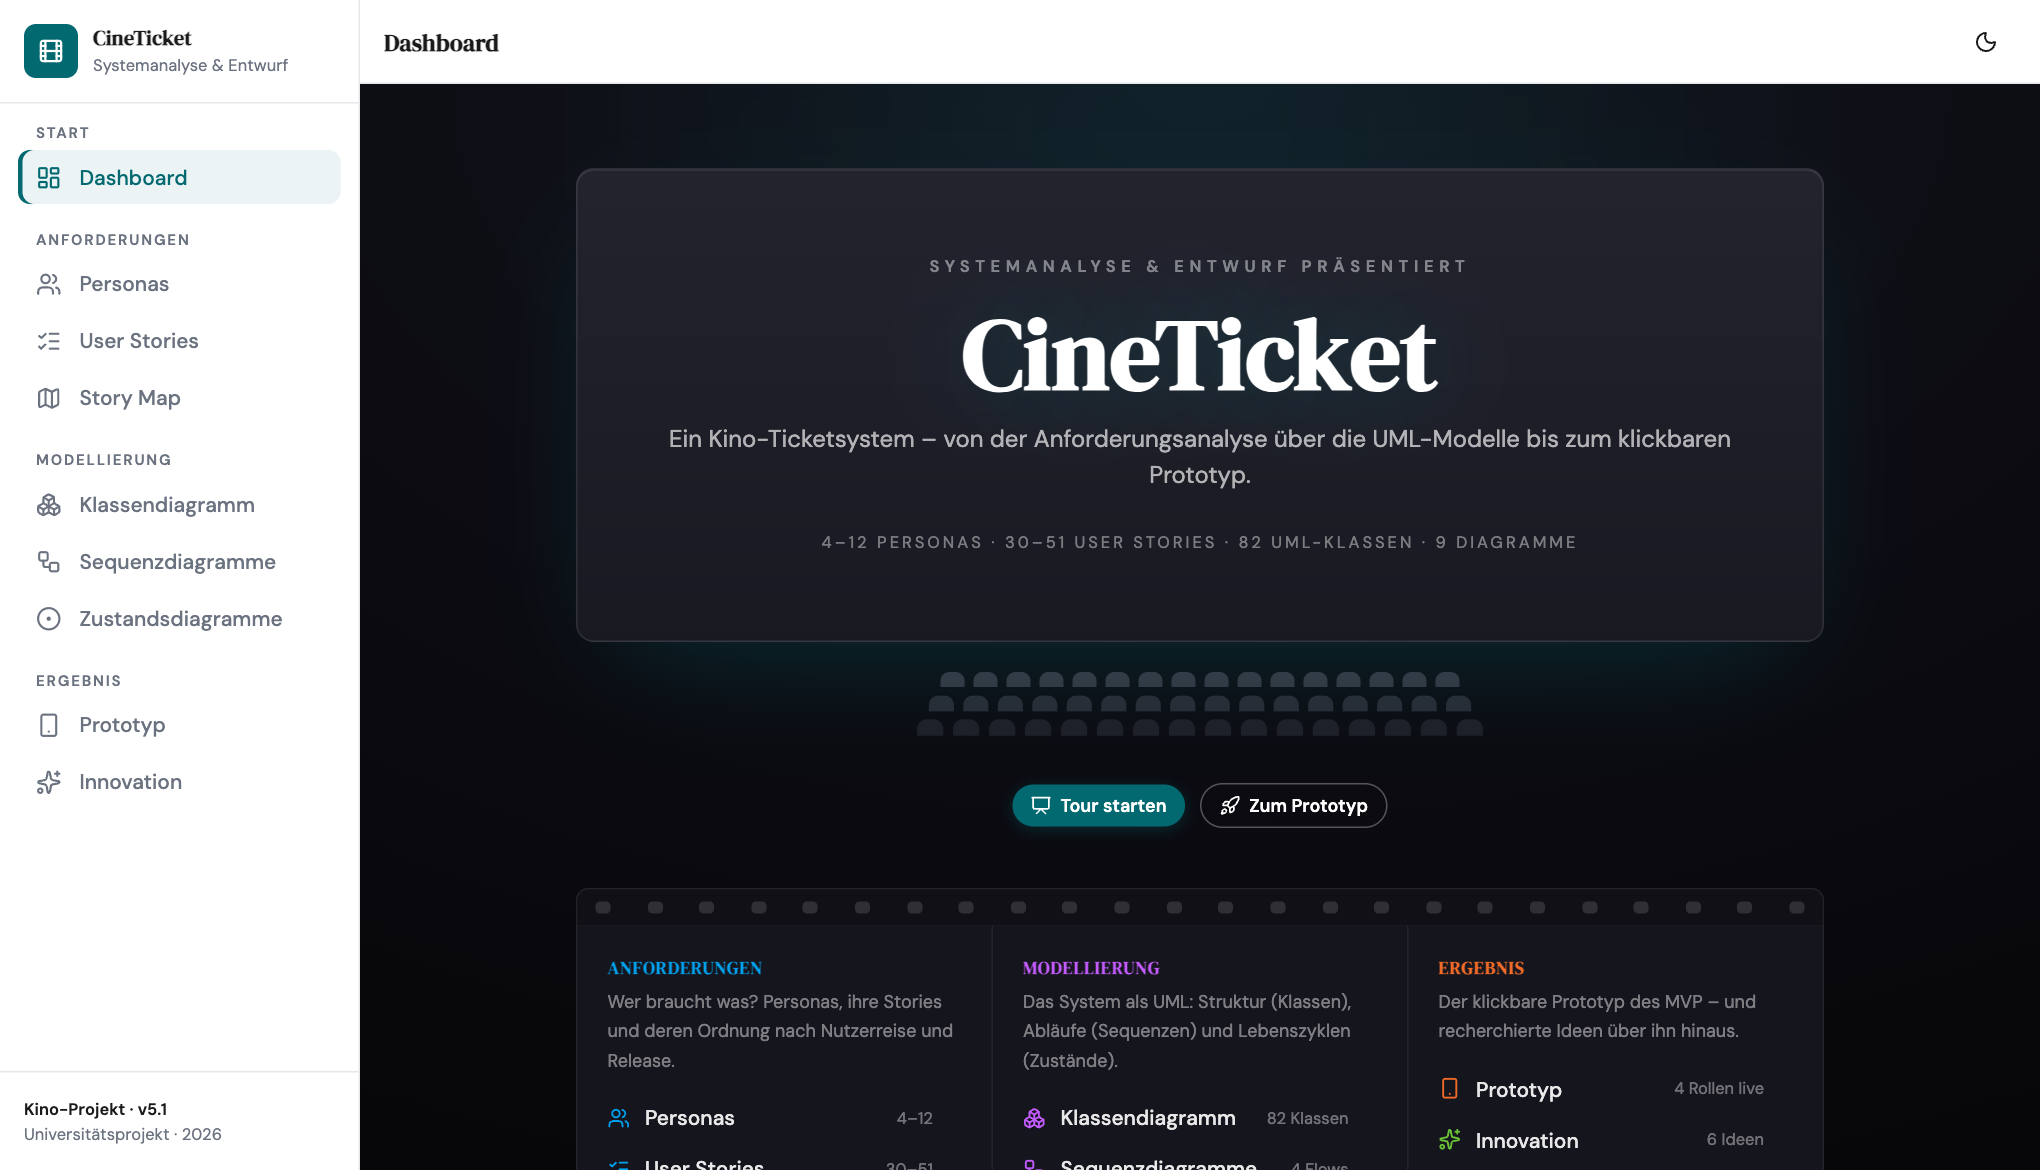
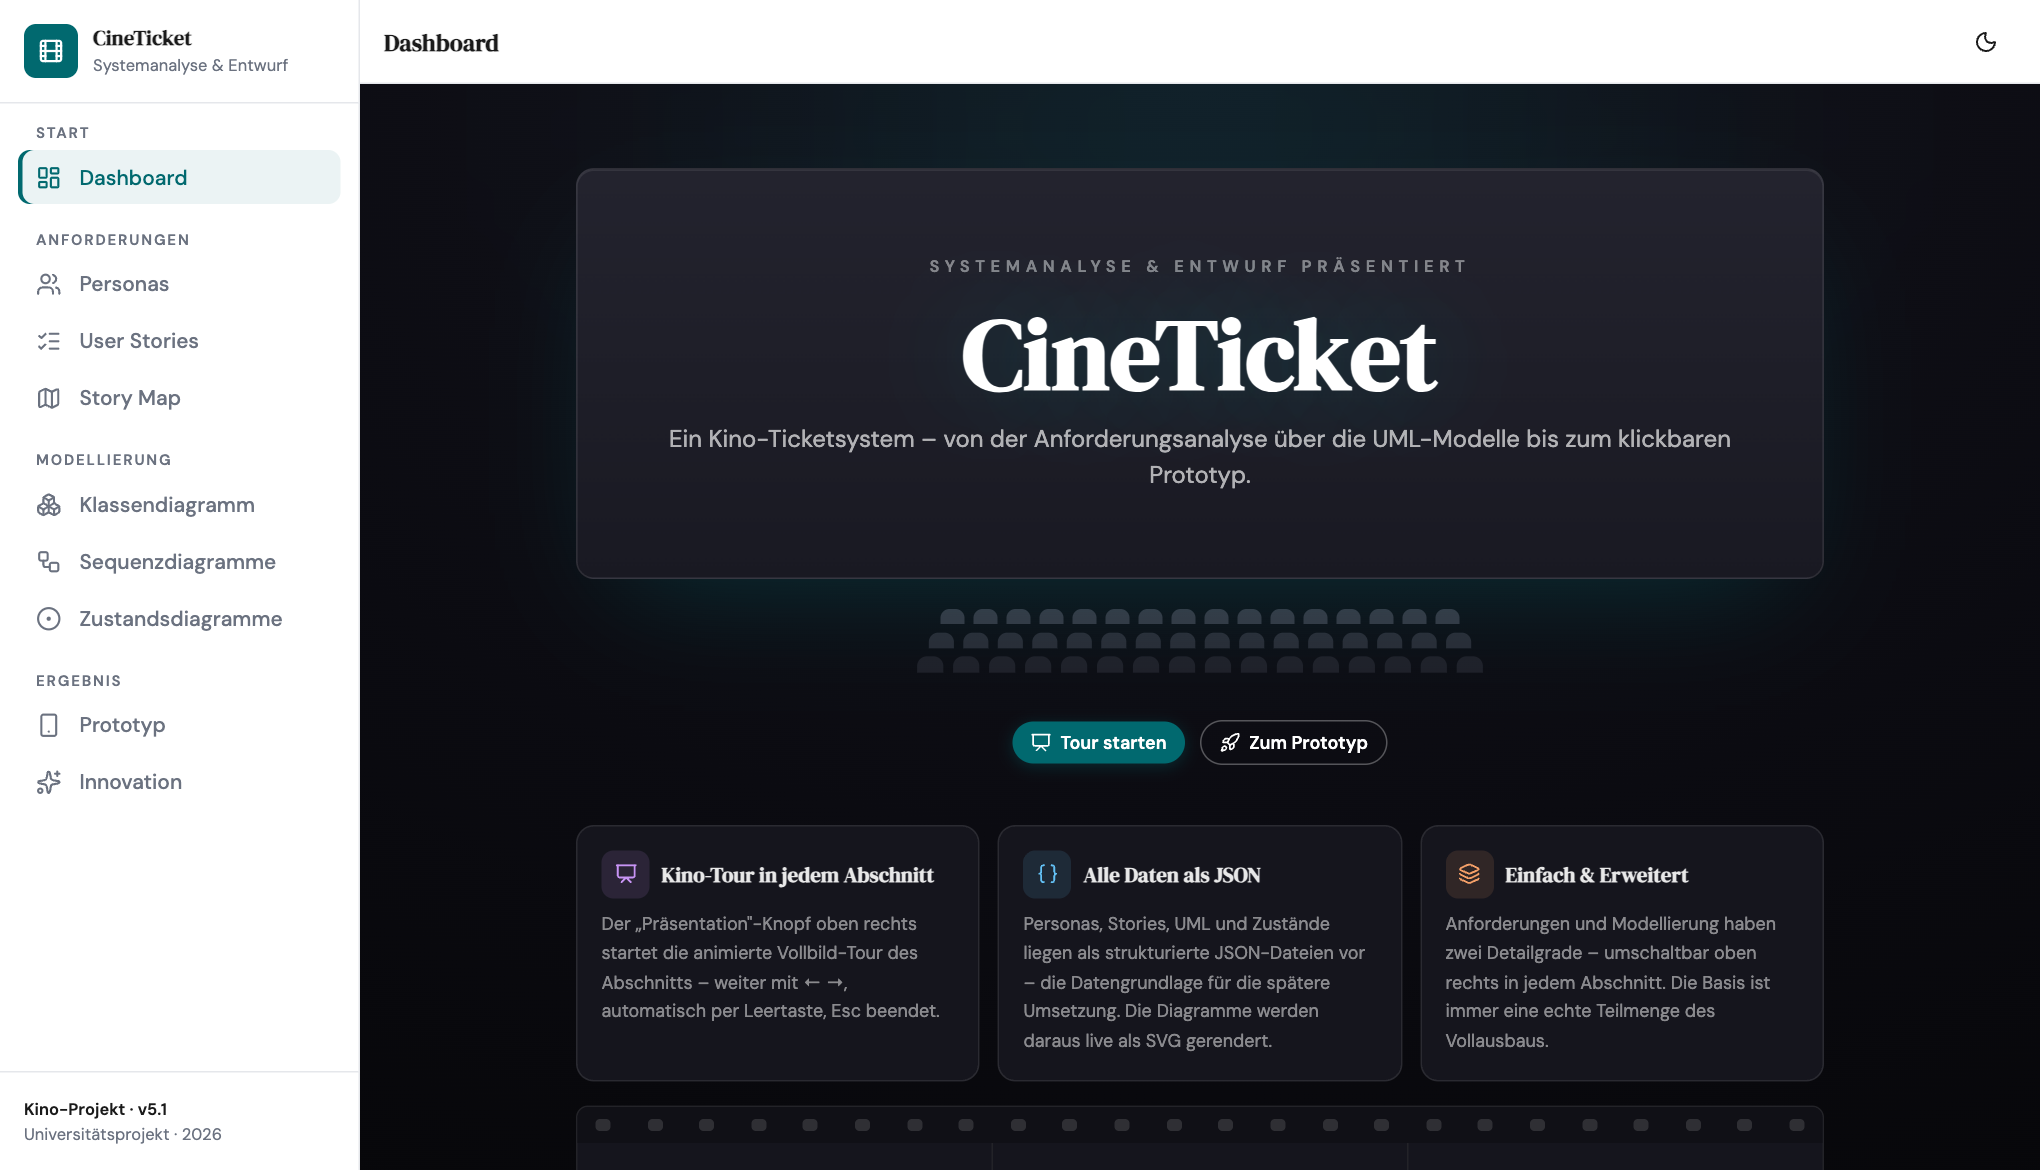
Dashboard: Erklär-Karten direkt sichtbar; neutralweißes Karo in den Abschnitten
- Drei Hinweis-Karten im Saal-Look auf dem Dashboard (nicht erst in der
  Tour): Kino-Tour-Bedienung, alle Daten als JSON (Datengrundlage für die
  spätere Umsetzung, live als SVG), Einfach & Erweitert
- Kennzahlen-Zeile unter dem Leinwand-Titel entfernt — die Zahlen stehen
  im Filmstreifen je Abschnitt
- „Präsentation"-Knopf mit Tooltip in jedem Abschnitt (analog ModeToggle)
- Whiteboard-Hintergrund hell: Creme → Neutralweiß (#fafafa, Gitter
  dezenter) — lenkt nicht ab, einheitlich zu den Karten
- README-Screenshot aktualisiert

diff --git a/src/pages/OverviewPage.tsx b/src/pages/OverviewPage.tsx
@@ -4,7 +4,7 @@
 // (Design-Entscheidung 2026-07-14; unterlegene Entwürfe: docs/DASHBOARD_VARIANTEN.md)
 import { Link } from 'react-router-dom'
 import { motion, useReducedMotion } from 'motion/react'
-import { ArrowRight, Rocket } from 'lucide-react'
+import { ArrowRight, Braces, Layers, Presentation as PresentationIcon, Rocket } from 'lucide-react'
 import { pageVariants } from '@/lib/transitions'
 import { NAV } from '@/components/layout/nav'
 import { Presentation } from '@/components/presentation/Presentation'
@@ -15,16 +15,6 @@ import type { PresentationStep } from '@/types'
 
 const ACCENT = '#01696f'
 const EASE: [number, number, number, number] = [0.16, 1, 0.3, 1]
-
-// Klassendiagramm + Sequenzdiagramme + Zustandsautomaten (inkl. Enum-Automaten)
-const nDiagramme = 1 + sequences.length + stateMachines.machines.length + extraMachines.length
-
-const heroStats = [
-  `${personas.basis.length}–${personas.erweitert.length} Personas`,
-  `${stories.basis.length}–${stories.erweitert.length} User Stories`,
-  `${uml.classes.length} UML-Klassen`,
-  `${nDiagramme} Diagramme`,
-]
 
 // Kennzahl je Abschnitt (Spannen = Einfach-/Erweitert-Modus), aus den Daten berechnet
 const rollenLive = prototype.rollen.filter((r) => r.status === 'implementiert').length
@@ -112,12 +102,8 @@ export default function OverviewPage() {
             >
               CineTicket
             </h1>
-            <p className="text-sm md:text-base mb-6" style={{ color: 'rgba(255,255,255,0.66)' }}>
+            <p className="text-sm md:text-base" style={{ color: 'rgba(255,255,255,0.66)' }}>
               Ein Kino-Ticketsystem – von der Anforderungsanalyse über die UML-Modelle bis zum klickbaren Prototyp.
-            </p>
-            {/* „Credits"-Zeile mit den Kennzahlen */}
-            <p className="text-[11px] uppercase tracking-[0.18em] leading-relaxed" style={{ color: 'rgba(255,255,255,0.42)' }}>
-              {heroStats.join('  ·  ')}
             </p>
           </div>
 
@@ -145,8 +131,26 @@ export default function OverviewPage() {
           </Link>
         </motion.div>
 
+        {/* So funktioniert diese Website — direkt sichtbar, nicht erst in der Tour */}
+        <motion.div {...enter(0.26)} className="grid grid-cols-1 md:grid-cols-3 gap-3 mt-10">
+          <HinweisKarte icon={PresentationIcon} accent="#c894f5" title="Kino-Tour in jedem Abschnitt">
+            Der „Präsentation"-Knopf oben rechts startet die animierte Vollbild-Tour
+            des Abschnitts – weiter mit ← →, automatisch per Leertaste, Esc beendet.
+          </HinweisKarte>
+          <HinweisKarte icon={Braces} accent="#63c1f5" title="Alle Daten als JSON">
+            Personas, Stories, UML und Zustände liegen als strukturierte JSON-Dateien
+            vor – die Datengrundlage für die spätere Umsetzung. Die Diagramme werden
+            daraus live als SVG gerendert.
+          </HinweisKarte>
+          <HinweisKarte icon={Layers} accent="#f5a068" title="Einfach & Erweitert">
+            Anforderungen und Modellierung haben zwei Detailgrade – umschaltbar oben
+            rechts in jedem Abschnitt. Die Basis ist immer eine echte Teilmenge des
+            Vollausbaus.
+          </HinweisKarte>
+        </motion.div>
+
         {/* Filmstreifen mit den drei Stationen */}
-        <motion.div {...enter(0.28)} className="mt-10 rounded-lg overflow-hidden" style={{ background: '#101016', border: '1px solid rgba(255,255,255,0.08)' }}>
+        <motion.div {...enter(0.38)} className="mt-4 rounded-lg overflow-hidden" style={{ background: '#101016', border: '1px solid rgba(255,255,255,0.08)' }}>
           <Sprockets />
           <div className="grid grid-cols-1 md:grid-cols-3 gap-px" style={{ background: 'rgba(255,255,255,0.08)' }}>
             {GROUPS.map((group) => (
@@ -176,12 +180,25 @@ export default function OverviewPage() {
           </div>
           <Sprockets />
         </motion.div>
-
-        <motion.p {...enter(0.4)} className="mt-7 text-center text-[11px] uppercase tracking-[0.22em]" style={{ color: 'rgba(255,255,255,0.3)' }}>
-          Einfach ⊂ Erweitert · Inhalte als JSON → SVG · Kino-Tour in jedem Abschnitt
-        </motion.p>
       </div>
     </motion.div>
+  )
+}
+
+// Erklär-Karte im Saal-Look (Bedienung & Datenhaltung auf einen Blick)
+function HinweisKarte({ icon: Icon, accent, title, children }: {
+  icon: React.ElementType; accent: string; title: string; children: React.ReactNode
+}) {
+  return (
+    <div className="rounded-xl p-4" style={{ background: '#15151d', border: '1px solid rgba(255,255,255,0.09)' }}>
+      <div className="flex items-center gap-2 mb-2">
+        <span className="w-8 h-8 rounded-lg flex items-center justify-center flex-shrink-0" style={{ background: `${accent}1f`, color: accent }}>
+          <Icon size={15} />
+        </span>
+        <h4 className="text-sm font-semibold text-white/90">{title}</h4>
+      </div>
+      <p className="text-xs leading-relaxed" style={{ color: 'rgba(255,255,255,0.5)' }}>{children}</p>
+    </div>
   )
 }
 

diff --git a/src/components/presentation/Presentation.tsx b/src/components/presentation/Presentation.tsx
@@ -29,6 +29,7 @@ export function Presentation({ steps, accent, title, label = 'Präsentation', in
     <>
       <button
         onClick={() => setActive(true)}
+        title="Animierte Vollbild-Tour dieses Abschnitts – weiter mit ← →, automatisch per Leertaste, Esc beendet"
         className={`inline-flex items-center gap-1.5 px-3 py-1.5 rounded-full text-xs font-semibold transition-transform hover:-translate-y-0.5 ${invert ? '' : 'text-white'}`}
         style={invert
           ? { background: '#fff', color: accent, boxShadow: '0 2px 12px rgba(0,0,0,0.28)' }

diff --git a/src/styles/globals.css b/src/styles/globals.css
@@ -9,8 +9,10 @@
 }
 
 :root {
-  --bg-whiteboard: #f9f8f5;
-  --grid-color: rgba(0, 0, 0, 0.04);
+  /* Neutral-weißes Karo statt des früheren Cremetons — ruhiger und einheitlich
+     zu den weißen Karten (Owner-Entscheidung 2026-07-14). */
+  --bg-whiteboard: #fafafa;
+  --grid-color: rgba(0, 0, 0, 0.03);
   --grid-size: 32px;
   --font-body: 'DM Sans', sans-serif;
   --font-display: 'DM Serif Display', serif;

diff --git a/docs/PROGRESS.md b/docs/PROGRESS.md
@@ -211,3 +211,16 @@
   Quellcode in docs/DASHBOARD_VARIANTEN.md archiviert (Owner-Entscheidung).
   README-Screenshot auf das neue Dashboard aktualisiert. Verifiziert:
   Build/Lint grün, hell/dunkel/mobil per Playwright, Tour startet, 0 Fehler.
+- 2026-07-15: Dashboard-Feinschliff nach Owner-Feedback: (1) Die drei
+  Erklär-Karten sind zurück und direkt sichtbar (nicht erst in der Tour) —
+  „Kino-Tour in jedem Abschnitt" (Bedienung ← →/Leertaste/Esc), „Alle Daten
+  als JSON" (Datengrundlage für die spätere Umsetzung, live als SVG
+  gerendert), „Einfach & Erweitert" — im Saal-Look zwischen CTAs und
+  Filmstreifen. (2) Kennzahlen-Zeile unter dem Leinwand-Titel entfernt
+  (Zahlen stehen im Filmstreifen je Abschnitt). (3) „Präsentation"-Knopf
+  hat jetzt in jedem Abschnitt einen Tooltip (analog ModeToggle).
+  (4) Whiteboard-Hintergrund hell von Creme (#f9f8f5) auf Neutralweiß
+  (#fafafa, Gitter 0.03) — ruhiger, einheitlich zu den weißen Karten;
+  Dunkel unverändert. README-Screenshot erneuert. Verifiziert: Build/Lint
+  grün, Dashboard + Abschnitte per Playwright (hell/dunkel), Tour startet,
+  0 Fehler.
